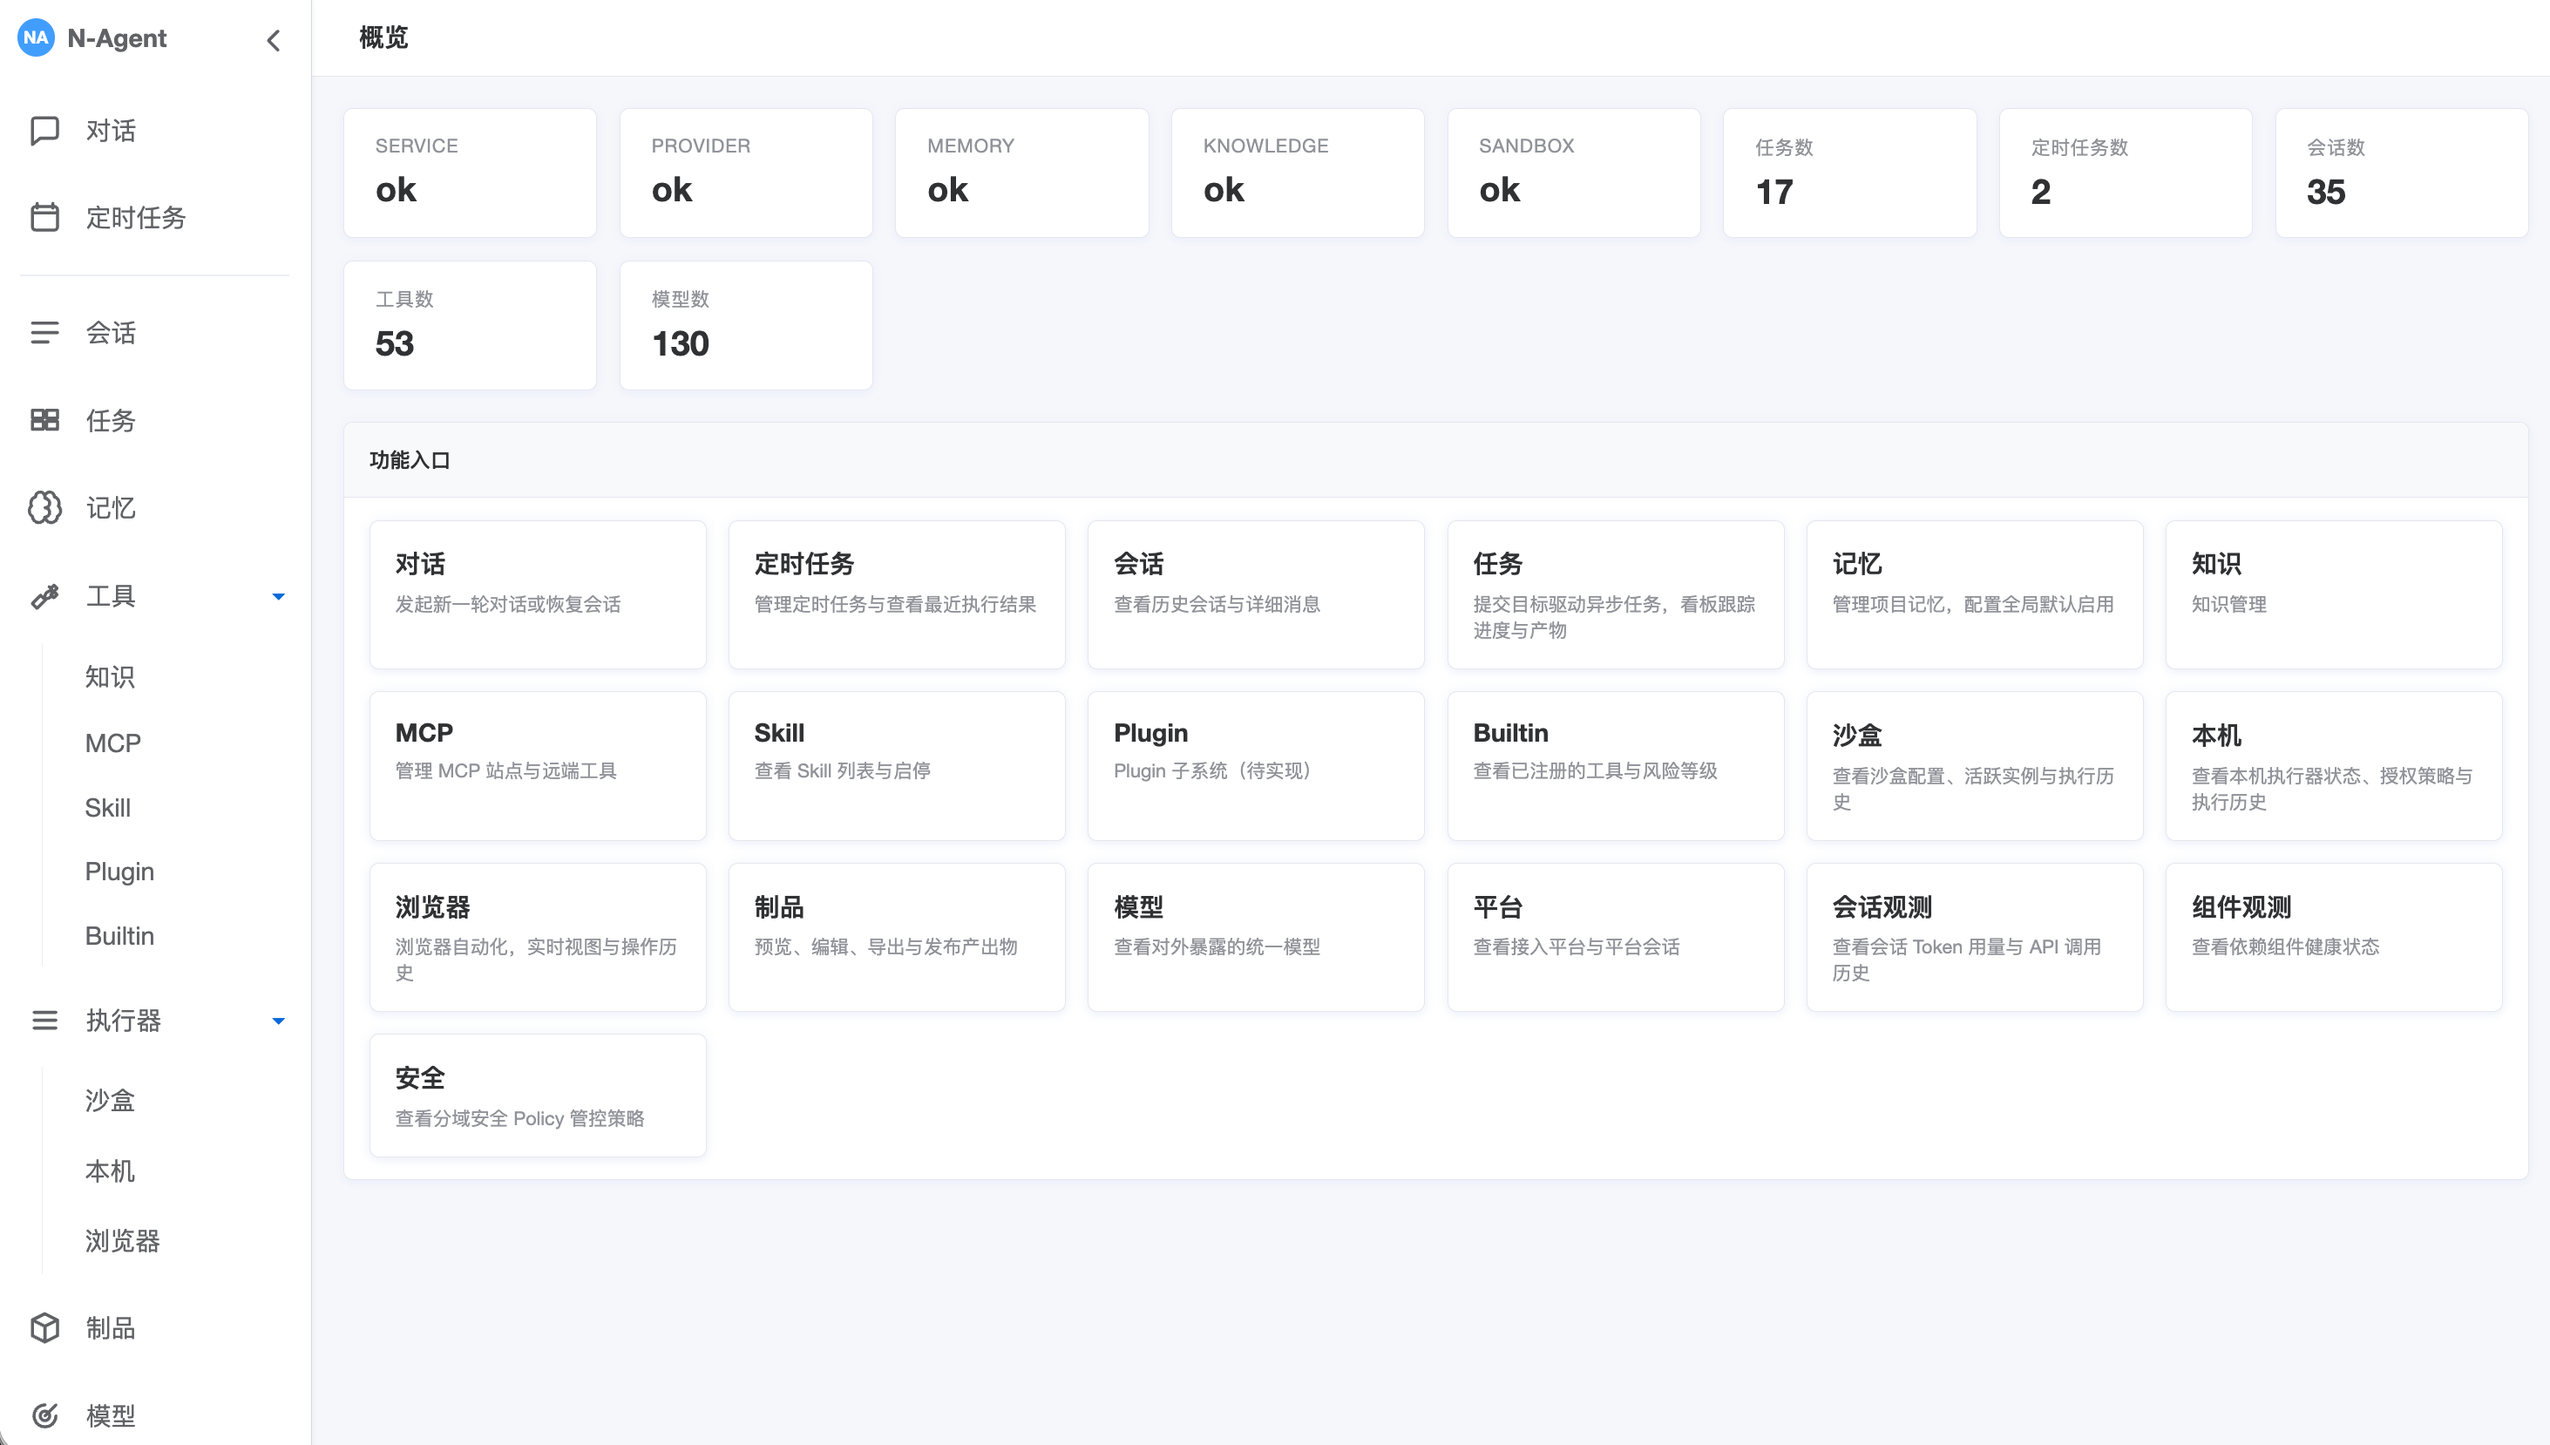
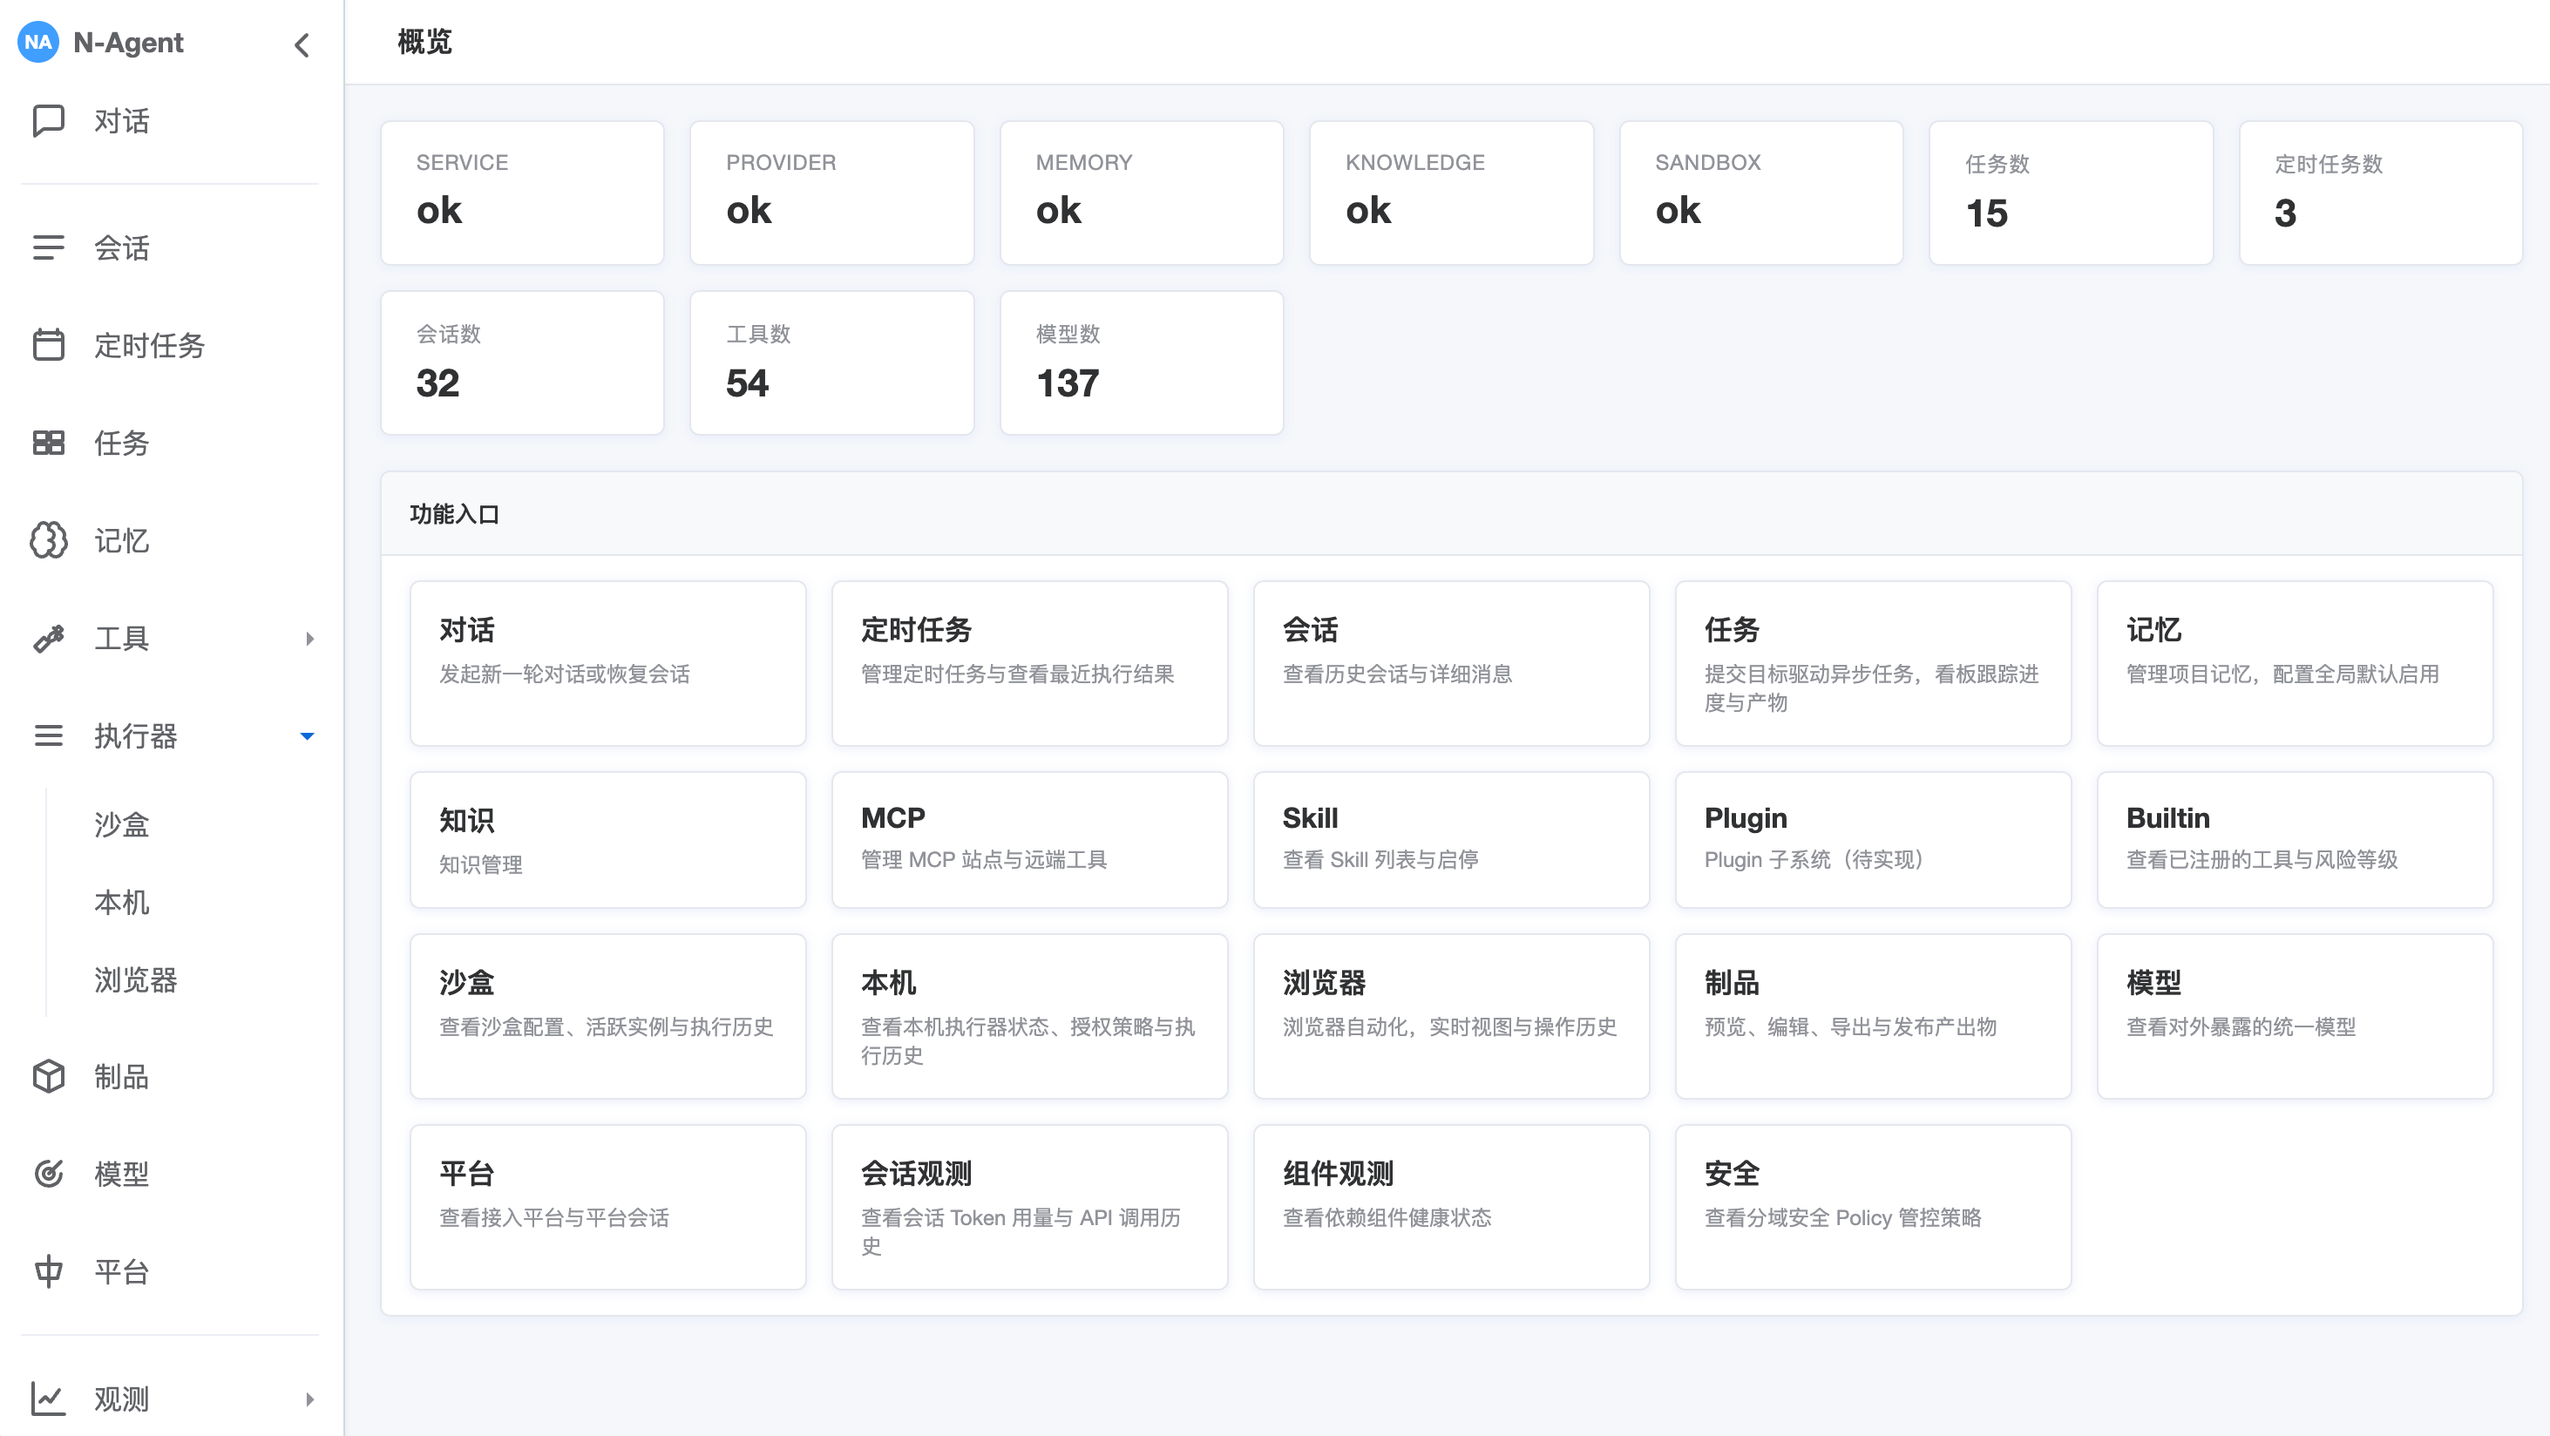
nagent:更新插图

diff --git a/_posts/2026-07-04-ai-nagent.md b/_posts/2026-07-04-ai-nagent.md
@@ -10,9 +10,11 @@ mermaid: true
 
 本文介绍自研通用Agent Runtime [N-Agent](https://github.com/niean/n-agent)。N-Agent 以 LangGraph 编排 Agent TurnLoop，用领域驱动设计（DDD）隔离业务核心与外部实现，支撑持续演进。
 
+核心流程：接收对话请求，加载会话上下文，循环"调用模型→按需执行工具"直至产出最终回答，更新会话与外部记忆，返回同步或流式结果。
+
 ![page.png](https://raw.githubusercontent.com/niean/niean.github.io/master/images/20260704/nagent-fe.png)
 
-核心流程：接收对话请求，加载会话上下文，循环"调用模型→按需执行工具"直至产出最终回答，更新会话与外部记忆，返回同步或流式结果。
+![page.png](https://raw.githubusercontent.com/niean/niean.github.io/master/images/20260704/nagent-chat.png)
 
 
 ## 领域划分
